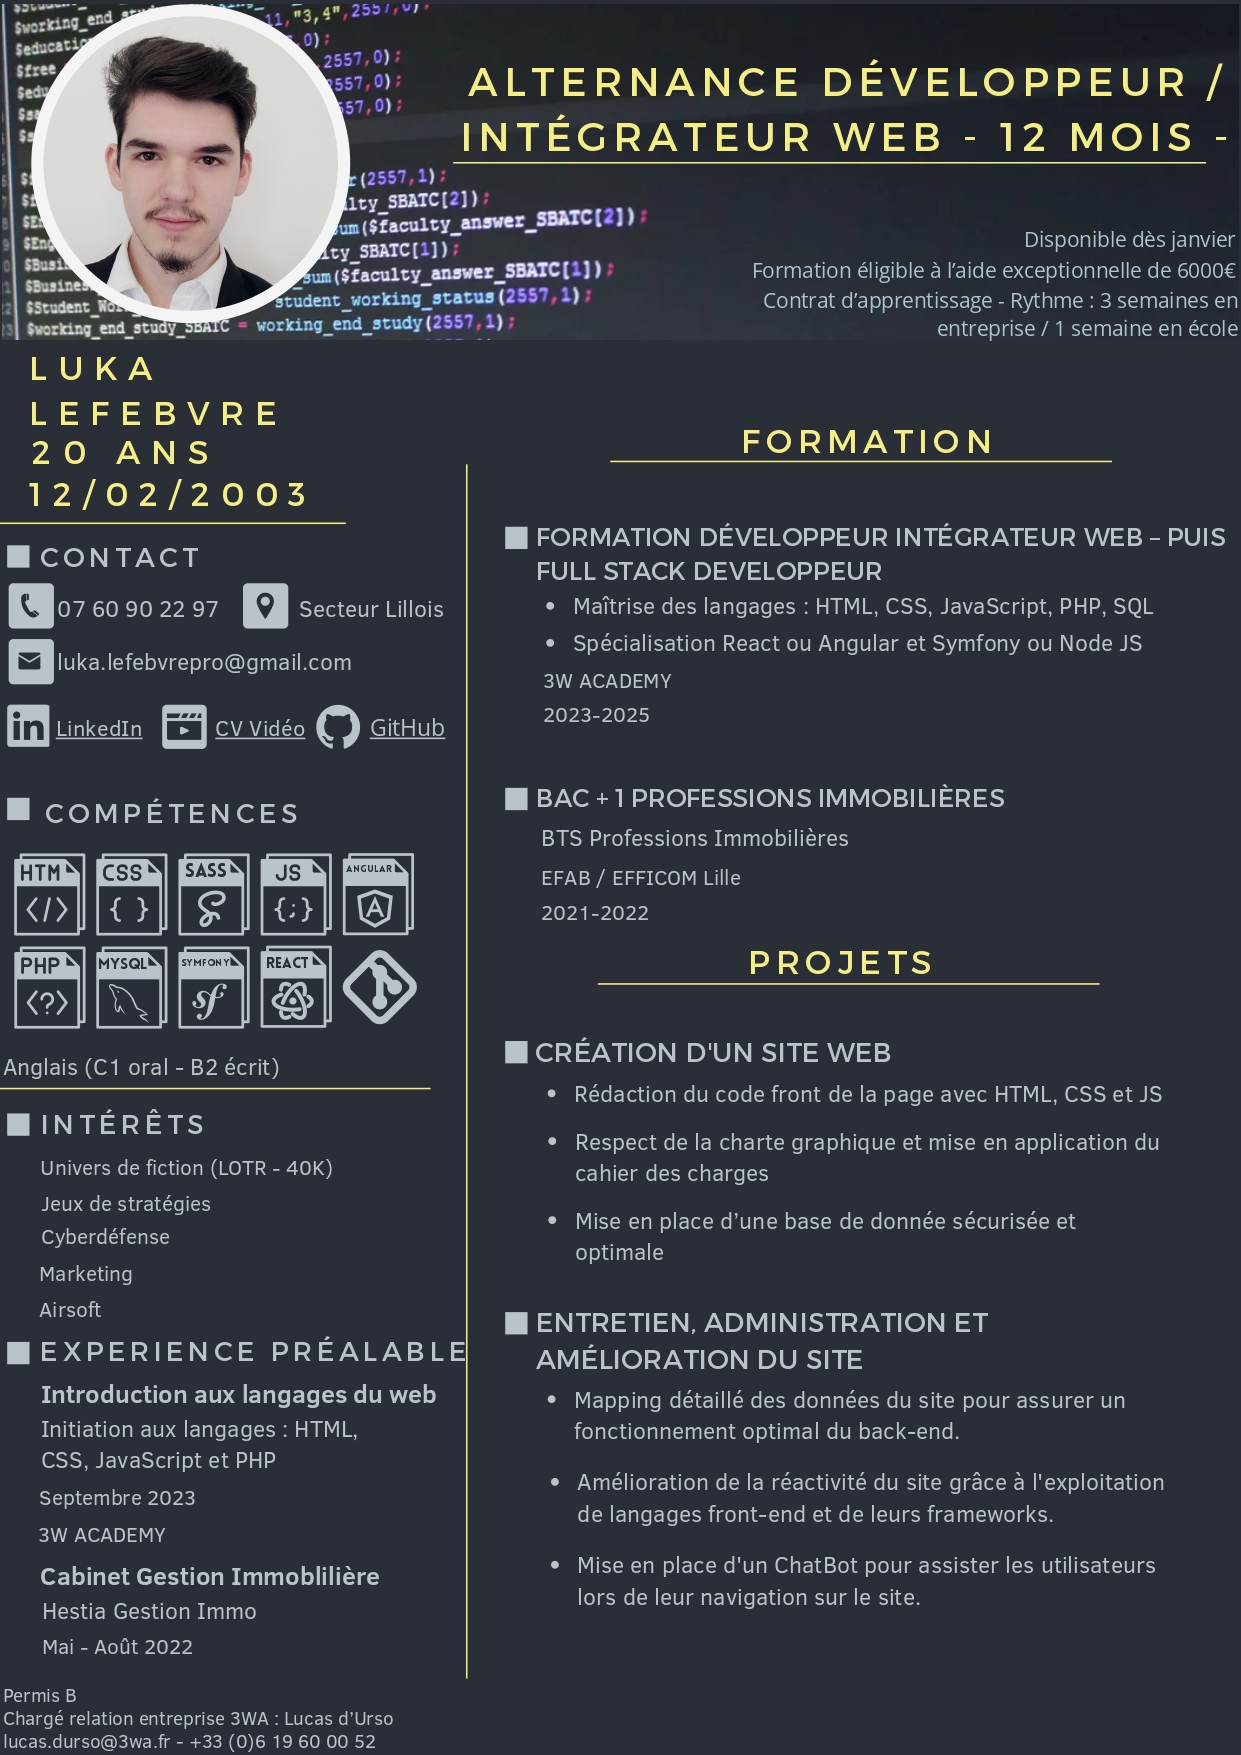
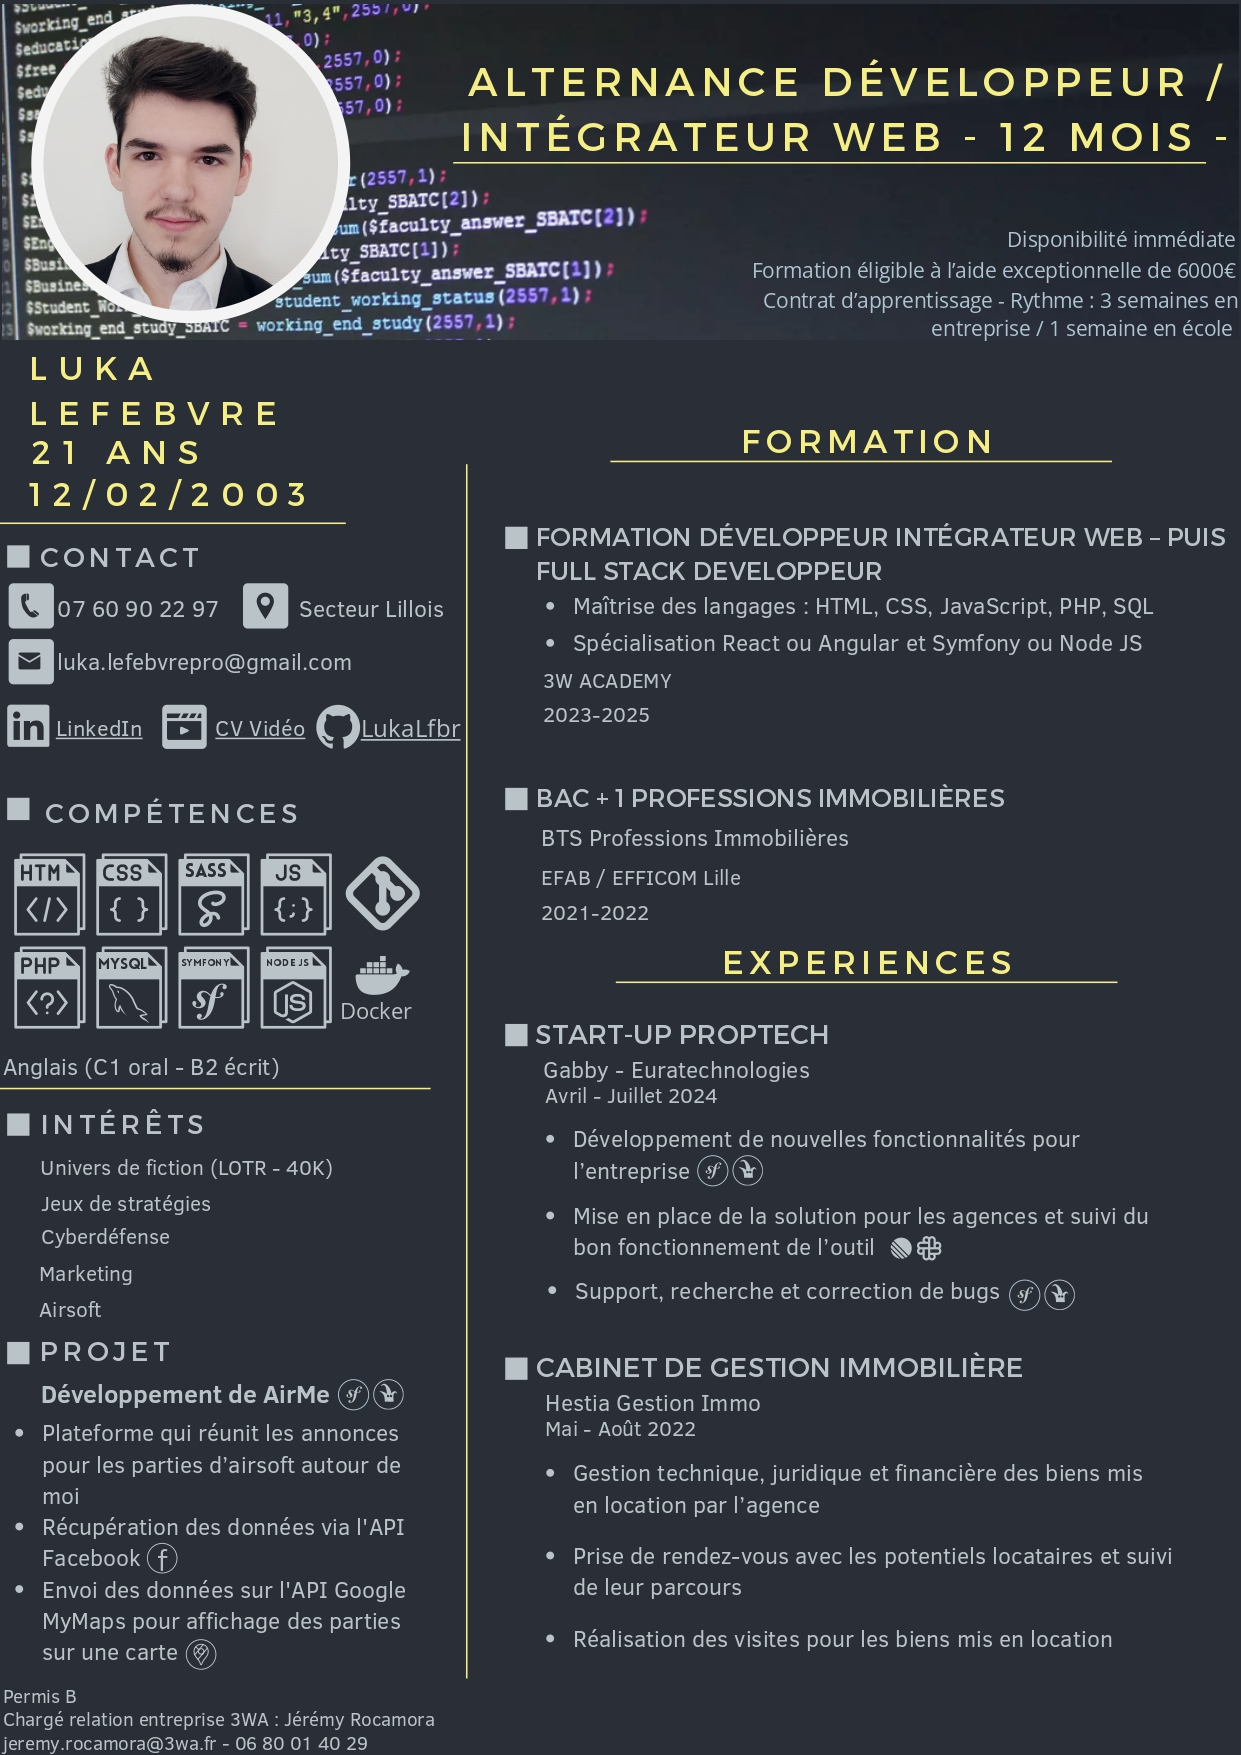
Adjusted portfolio with current informations.

diff --git a/index.html b/index.html
@@ -228,13 +228,8 @@
               </div>
 
               <div data-aos="zoom-in" class="skills-content">
-                <img src="assets/img/react.svg" alt="react icon" />
-                <p>React</p>
-              </div>
-
-              <div data-aos="zoom-in" class="skills-content">
-                <img src="assets/img/angular.svg" alt="angular icon" />
-                <p>Angular</p>
+                <img src="assets/img/twig-2.svg" alt="Twig-2 icon" />
+                <p>Twig</p>
               </div>
             </div>
           </div>
@@ -271,6 +266,11 @@
               </div>
 
               <div data-aos="zoom-in" class="skills-content">
+                <img src="assets/img/linear.svg" alt="Linear icon" />
+                <p>Linear</p>
+              </div>
+
+              <div data-aos="zoom-in" class="skills-content">
                 <img src="assets/img/marketing.svg" alt="thoothed-wheel icon" />
                 <p>Marketing</p>
               </div>
@@ -294,7 +294,7 @@
             </h2>
           </div>
 
-          <div data-aos="" class="education-content item-2">
+          <div data-aos="flip-left" class="education-content item-2">
             <div class="year">
               <i class="fa-regular fa-calendar"></i>
               <p>Janvier 2023 - Aujourd'hui</p>
@@ -329,14 +329,6 @@
                 <img src="assets/img/symfony.svg" alt="symfony icon" />
                 <p>Symfony</p>
               </div>
-              <div class="education-icon-content">
-                <img src="assets/img/react.svg" alt="react icon" />
-                <p>React</p>
-              </div>
-              <div class="education-icon-content">
-                <img src="assets/img/angular.svg" alt="angular icon" />
-                <p>Angular</p>
-              </div>
             </div>
           </div>
 
@@ -368,7 +360,7 @@
               <i class="fa-regular fa-calendar"></i>
               <p>2021 - 2022</p>
             </div>
-            <h3>Baccalauréat général - Mention assez bien</h3>
+            <h3>Baccalauréat général</h3>
             <p>
               Baccalauréat général spécialités Numérique et Science Informatique
               et Langue Littérature et Culture Etrangère Anglais. (LLCE - NSI)
@@ -394,6 +386,40 @@
           <div data-aos="flip-right" class="education-content item-6">
             <div class="year">
               <i class="fa-regular fa-calendar"></i>
+              <p>Avril 2024 - Juillet 2024</p>
+            </div>
+            <h3>Développeur back-end - Gabby (Euratechnologies)</h3>
+            <p>
+              Développement de la solution, support TMA, bugfix, intégration de
+              la solution chez les clients et création de features.
+            </p>
+            <div class="education-icon-wrapper">
+              <div class="education-icon-content">
+                <img src="assets/img/computer.svg" alt="computer icon" />
+                <p>Back-end</p>
+              </div>
+              <div class="education-icon-content">
+                <img src="assets/img/php.svg" alt="php icon" />
+                <p>PHP</p>
+              </div>
+              <div class="education-icon-content">
+                <img src="assets/img/symfony.svg" alt="symfony icon" />
+                <p>Symfony</p>
+              </div>
+              <div class="education-icon-content">
+                <img src="assets/img/linear.svg" alt="linear icon" />
+                <p>Linear</p>
+              </div>
+              <div class="education-icon-content">
+                <img src="assets/img/twig.svg" alt="twig icon" />
+                <p>Twig</p>
+              </div>
+            </div>
+          </div>
+
+          <div data-aos="flip-right" class="education-content item-7">
+            <div class="year">
+              <i class="fa-regular fa-calendar"></i>
               <p>Août 2022 - Octobre 2023</p>
             </div>
             <h3>Copywriter en Freelance</h3>
@@ -410,7 +436,7 @@
             </div>
           </div>
 
-          <div data-aos="flip-right" class="education-content item-7">
+          <div data-aos="flip-right" class="education-content item-8">
             <div class="year">
               <i class="fa-regular fa-calendar"></i>
               <p>Mai 2023 - Août 2023</p>
@@ -427,19 +453,6 @@
                 <p>Immobilier</p>
               </div>
             </div>
-          </div>
-
-          <div data-aos="flip-right" class="education-content item-8">
-            <div class="year">
-              <i class="fa-regular fa-calendar"></i>
-              <p>Novembre 2017</p>
-            </div>
-            <h3>Stage service cybersécurité - Préfecture du Nord</h3>
-            <p>
-              Stage d'observation au sein du service dédié à la cybersécurité à
-              la préfecture du Nord. Apprentissage des fondamentaux de la
-              cybersécurité et exploration de la salle des serveurs.
-            </p>
           </div>
         </div>
       </section>
